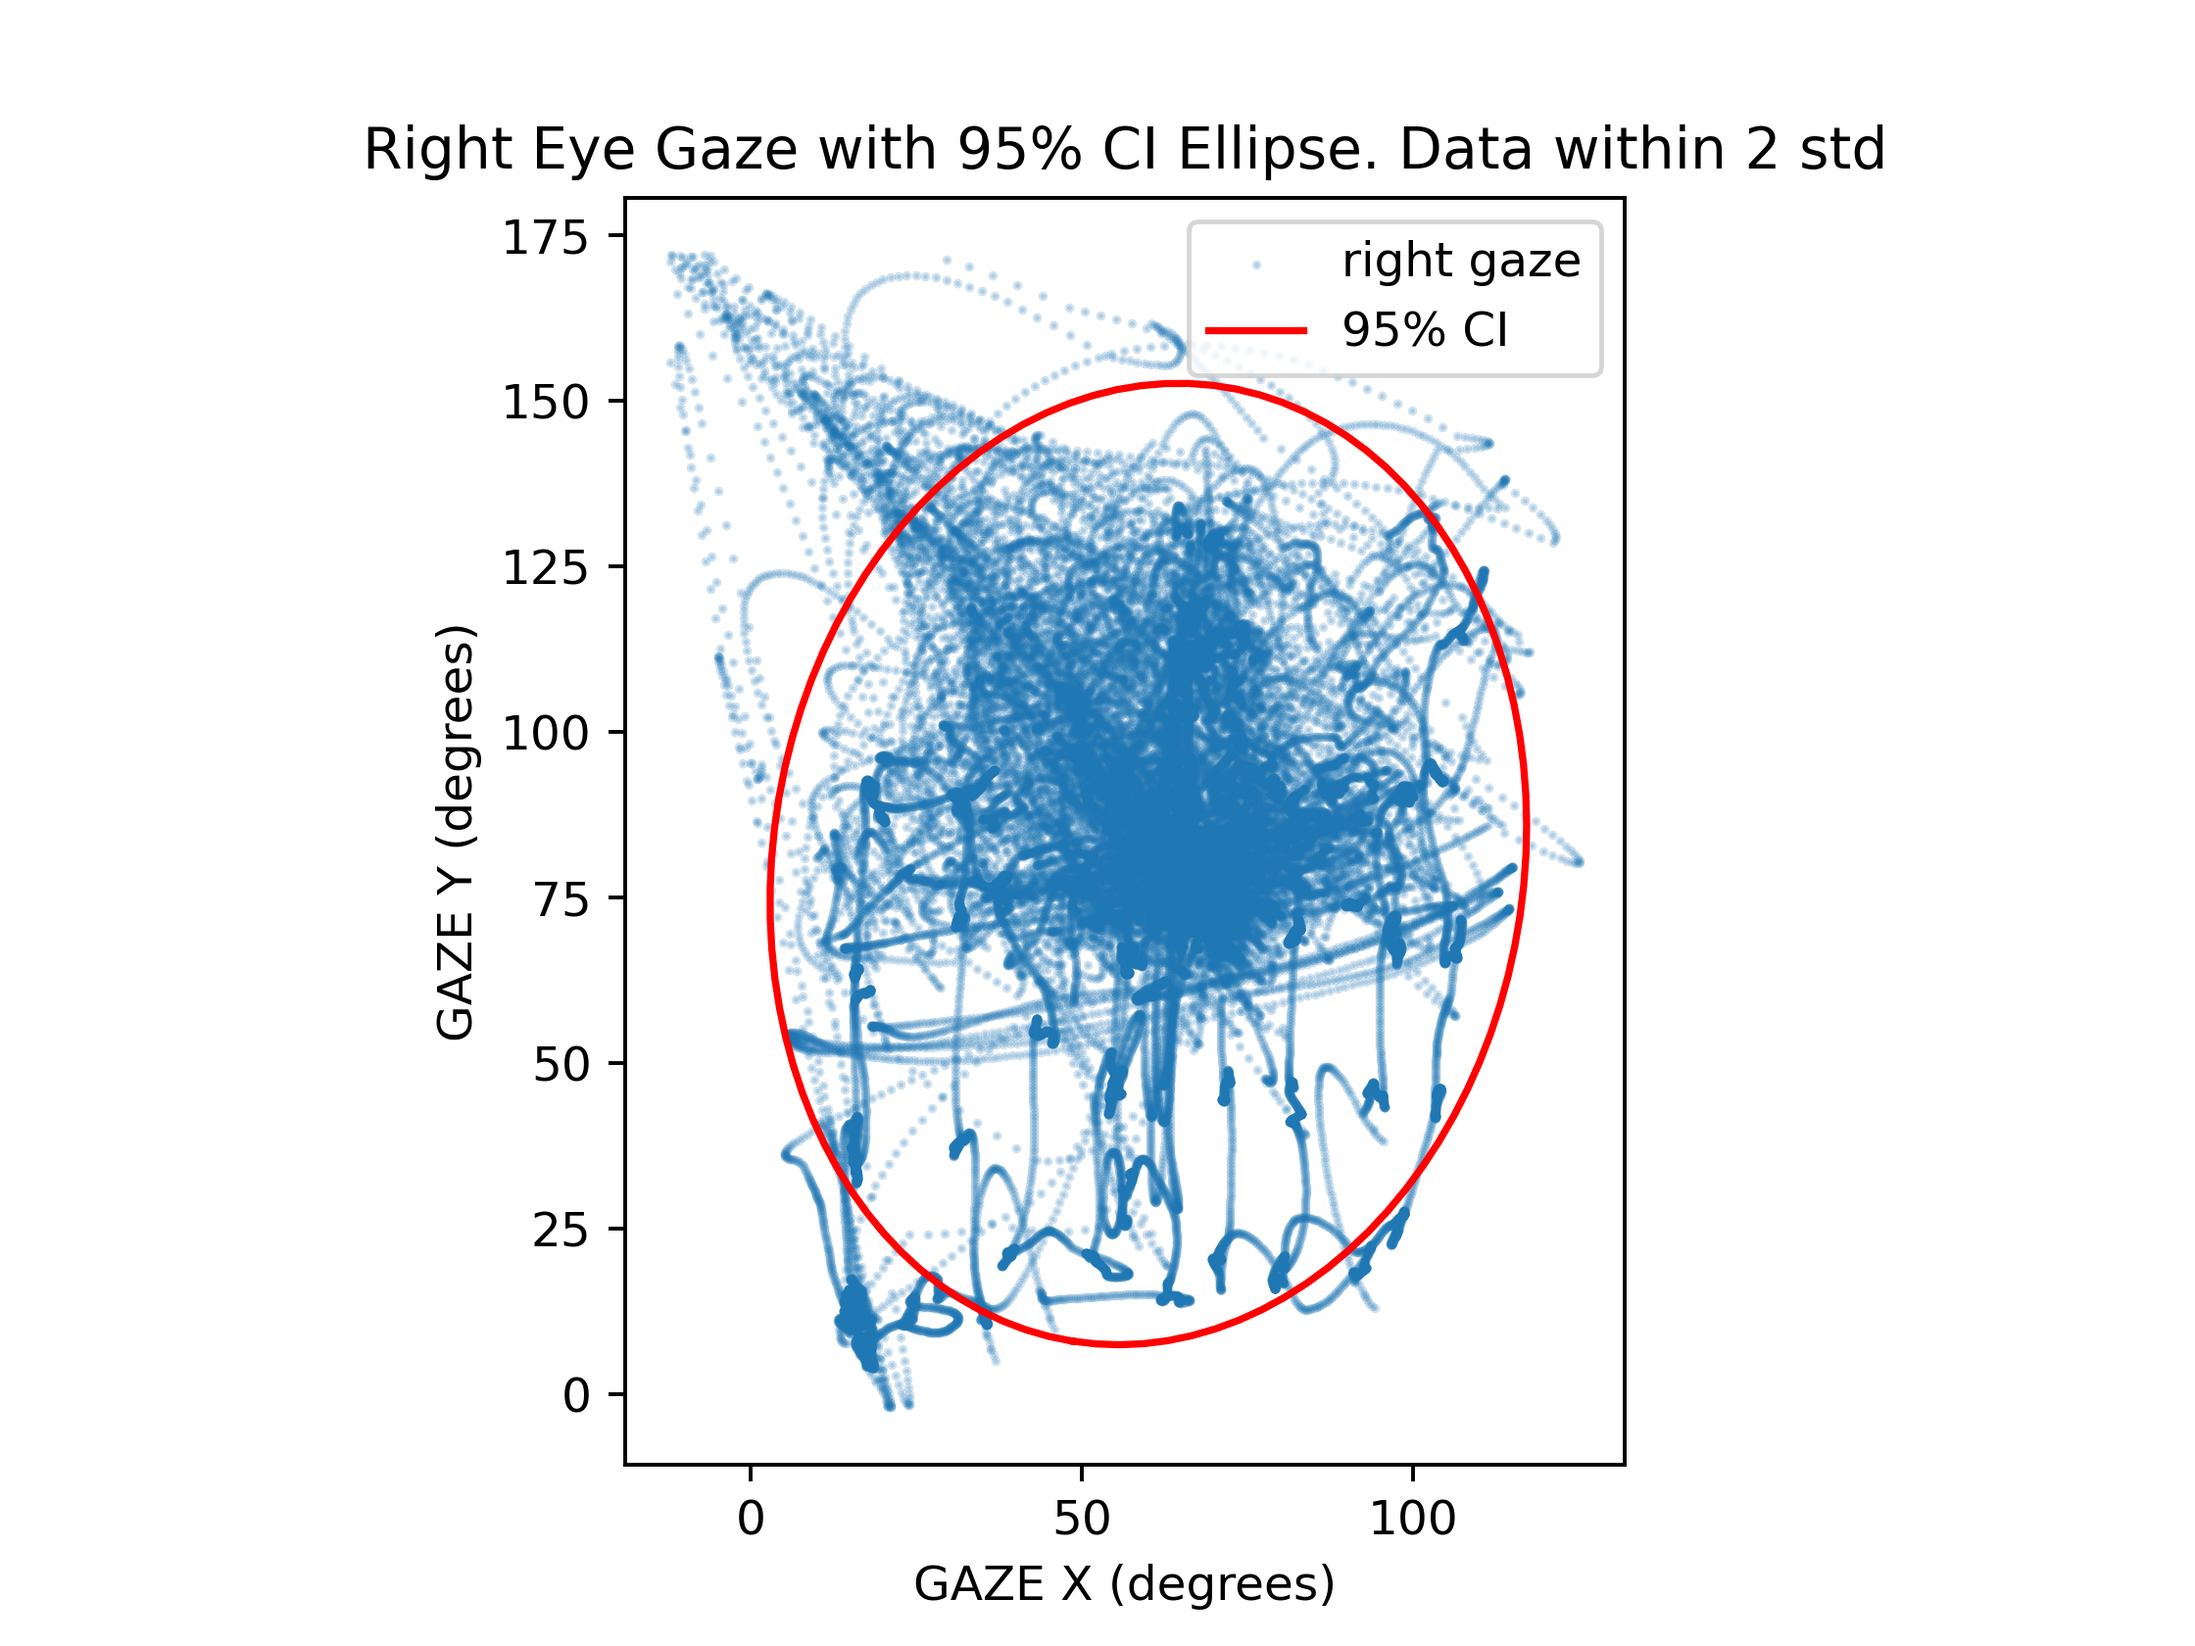
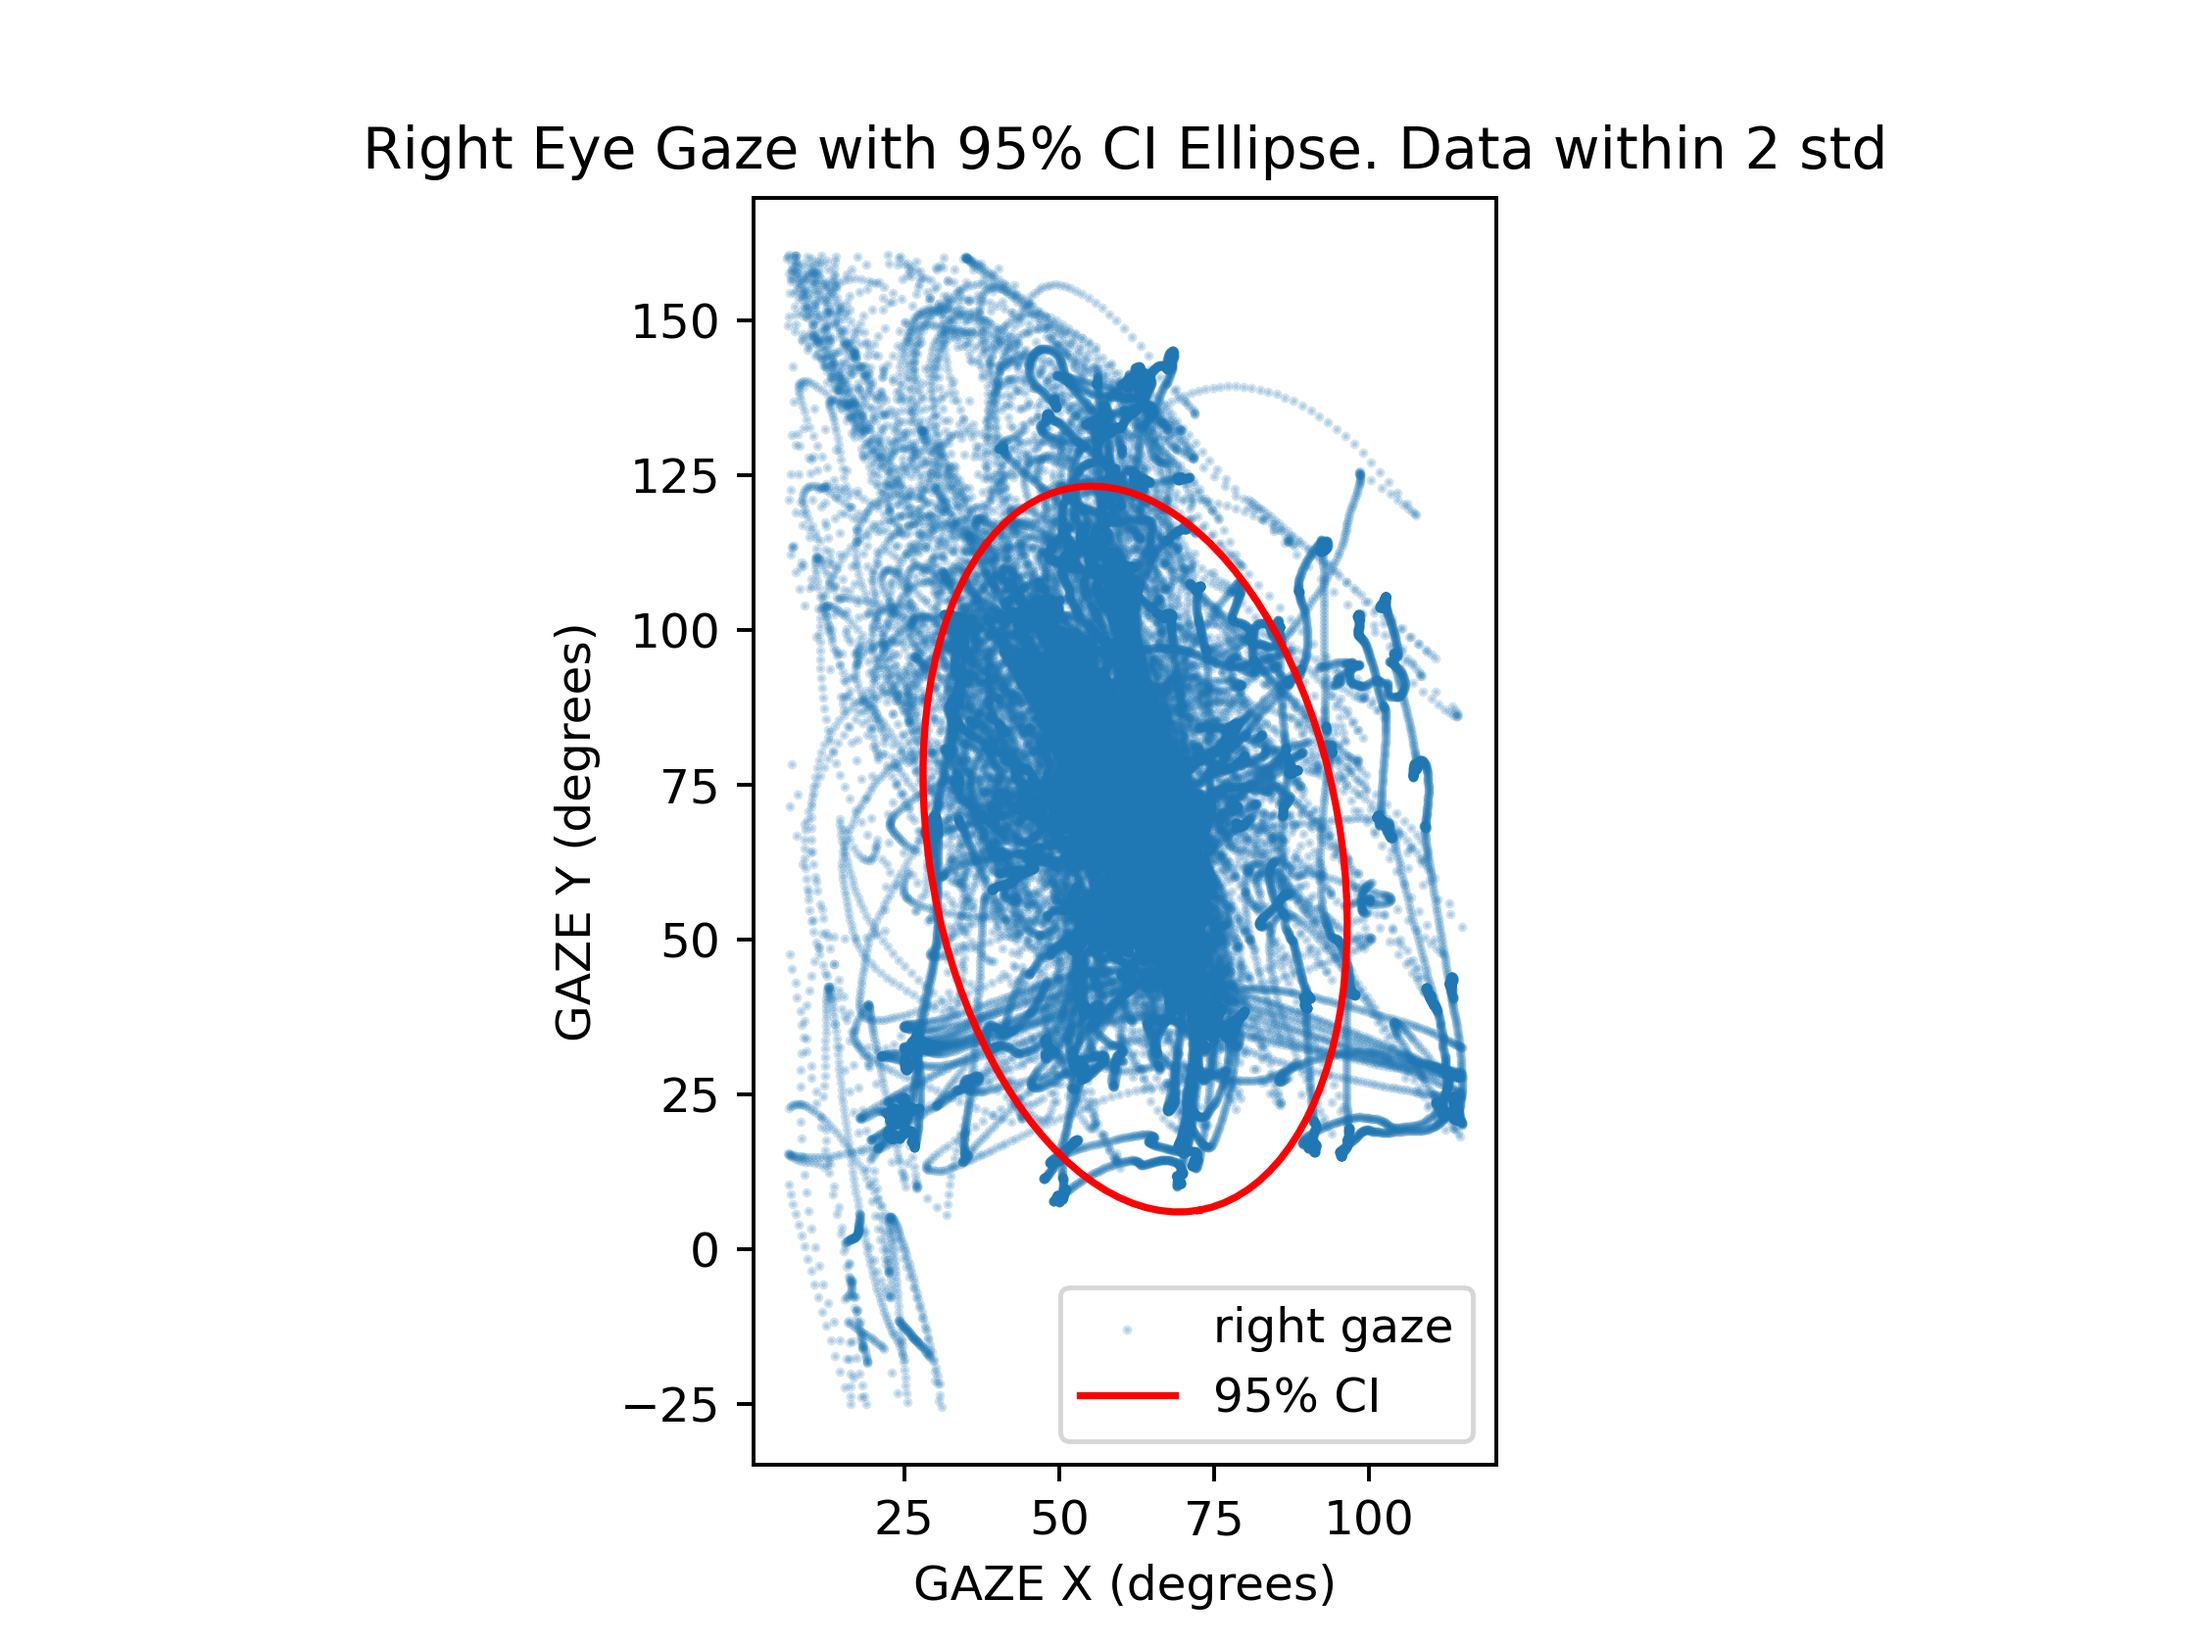
ADD: at the stage of combining head and eye data

diff --git a/eye_head_class.py b/eye_head_class.py
@@ -3,13 +3,15 @@ import matplotlib.pyplot as plt
 import numpy as np
 import vedb_gaze
 import vedb_store
-from odopy import headCalibrate
+# from odopy import headCalibrate #change this to vedb-odometry
+from vedb_odometry import vedb_calibration
 import os
 import yaml
 from tqdm import tqdm
 from sys import argv
 import rigid_body_motion as rbm
 from scipy.spatial.transform import Rotation
+from scipy import signal
 # import pickle
 n_cores = None 
 
@@ -227,7 +229,7 @@ class eyeHead():
                                                 )
         plt.close()
     def head_calibration(self):
-        odo = headCalibrate.headCalibrate()
+        odo = vedb_calibration.vedbCalibration()
         odo.set_odometry_local(self.input_folder)
         odo.start_end_plot()
         odo.t265_to_head_trans()
@@ -263,7 +265,7 @@ class eyeHead():
         rbm.register_frame("head",
                             translation=self.calib_odo.lin_pos,
                             rotation=self.calib_odo.ang_pos,
-                            timestamps=self.calib_odo.time.values,
+                            timestamps=self.calib_odo.time,
                             parent="world",
                             update=True,
                             )
@@ -333,7 +335,8 @@ class eyeHead():
         print(extrinsic_quat)
         #Apply extrinsics rotation to eye data: DO I APPLY THE QINV HERE?
         eye_in_head_coordinates = rbm.qmul(eye_orient_left, extrinsic_quat)#np.array(self.rotation_extrinsics_quat)
-        
+        upsample_head_ang = signal.resample(self.calib_odo.ang_pos.values, len(eye_in_head_coordinates))
+        eye_result = rbm.qmul(eye_in_head_coordinates,upsample_head_ang)
         # euler_array = np.zeros((eye_in_head_coordinates.shape[0], 3))
         # for i, quaternion in enumerate(eye_in_head_coordinates):
         #     modified_quaternion = [quaternion[3], quaternion[0], quaternion[1], quaternion[2]]  # Change order to [w, x, y, z]
@@ -345,11 +348,17 @@ class eyeHead():
         # plt.show()
         #Setup eye transform
         rbm.register_frame("eye",
-                            rotation=eye_in_head_coordinates,
+                            rotation=eye_result,
                             timestamps=eye_global_timestamps,
                             parent="head",
                             update=True,
                             )
+        eye_world = rbm.lookup_angular_velocity("eye","world",as_dataarray=True,represent_in='eye')
+
+        eye_world = np.rad2deg(eye_world)
+        print(eye_world)
+        input()
+        plt.plot()
     def run_analysis(self):
         self.eye_utils()
         self.calibration_markers_find()

diff --git a/eye_head.py b/eye_head.py
@@ -80,11 +80,16 @@ def calibration(ses):
                                                                         max_stds_for_outliers=3.0,
                                                                         )
 def load_pylids(input_folder):
-    with open(os.path.join(input_folder,'eye1.pkl'), 'rb') as f:
-        pupil_left = pickle.load(f)
-    with open(os.path.join(input_folder,'eye0.pkl'), 'rb') as f:
-        pupil_right = pickle.load(f)
+    # with open(os.path.join(input_folder,'eye1.pkl'), 'rb') as f:
+    #     pupil_left = pickle.load(f)
+    pupil_left = np.load(os.path.join(input_folder, 'pupil_left.npz'))
+    # with open(os.path.join(input_folder,'eye0.pkl'), 'rb') as f:
+    #     pupil_right = pickle.load(f)
+    pupil_right = np.load(os.path.join(input_folder, 'pupil_right.npz'))
+    print(pupil_left)
+    input()
     return pupil_left, pupil_right
+    
 def head():
     odo = vedb_calibration.vedbCalibration()
     odo.set_odometry_local(argv[1])
